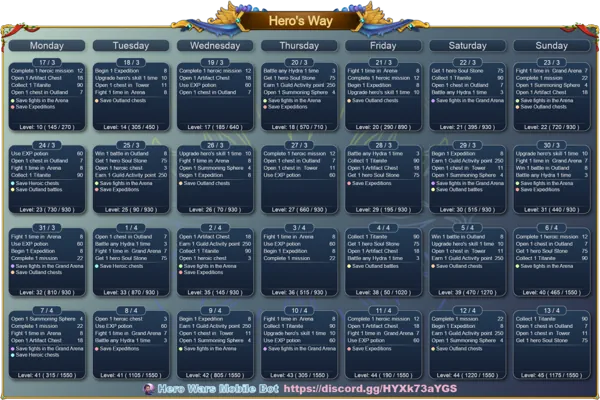
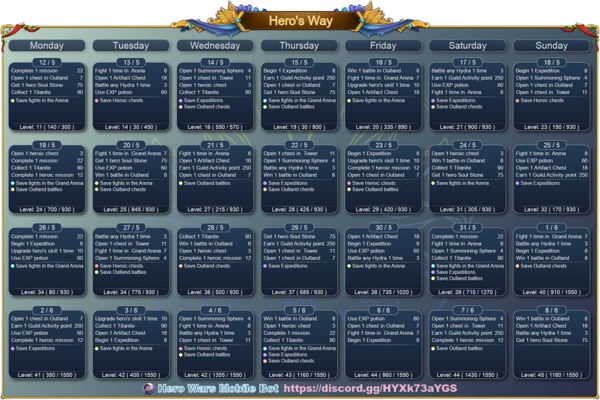
update herosway

diff --git a/hero-wars-alliance/event-hwa/herosway-pt-hwa.html b/hero-wars-alliance/event-hwa/herosway-pt-hwa.html
@@ -5,7 +5,7 @@
 <meta http-equiv="X-UA-Compatible" content="IE=edge">
 <meta name="viewport" content="width=device-width, initial-scale=1.0">
 <meta property="article:published_time" content="2024-09-05T21:45-03:00" />
-<meta property="article:modified_time" content="2025-03-17T23:14-03:00" />
+<meta property="article:modified_time" content="2025-05-17T21:33-03:000" />
 <link rel="stylesheet" href="../../estilo13.css">
 
 <title>Lista Diária do Caminho do Herói para Jogadores de Hero Wars Alliance</title>
@@ -213,16 +213,21 @@ em ingles coloque todas as missoes do evento em html
 </section>
 
 <figure class="img-banner"> 
-  <picture>
-      <!-- Para telas grandes (PC) de 80kb a 150kb -->
-      <source media="(min-width: 768px)" srcset="../../img-HWM/events-img/hero-way/hero-way-calendar.webp">
-      <!-- Para telas menores (mobile) de 30kb a 70kb -->
-      <img src="../../img-HWM/events-img/hero-way/hero-way-calendar-mobile-600px.webp" 
-           alt="Ilustração do evento Caminho do Herói do jogo Hero Wars Alliance" 
-           title="Evento Caminho do Herói - Hero Wars Alliance" 
-           loading="lazy">
-  </picture>
-  <figcaption>
+    <picture>
+        <!-- Para telas grandes (PC) de 80kb a 150kb -->
+        <source media="(min-width: 768px)" srcset="../../img-HWM/events-img/hero-way/hero-way-calendar.webp">
+        <!-- Para telas menores (mobile) de 30kb a 70kb -->
+        <img src="../../img-HWM/events-img/hero-way/hero-way-calendar-mobile-600px.webp" 
+             alt="Ilustração das Missões do evento Caminho do Herói do jogo Hero Wars Alliance" 
+             title="Missões Caminho do Herói - Hero Wars Alliance" 
+             loading="lazy">
+    </picture>
+    <figcaption>
+        Ilustração das Missões do Calendário Caminho do Herói do jogo Hero Wars Alliance.  
+        Fonte da imagem: Hero Wars Mobile Bot (via Discord).
+    </figcaption>
+</figure>
+
       Ilustração do calendário do evento Caminho do Herói do jogo Hero Wars Alliance.  
       Fonte da imagem: Hero Wars Mobile Bot (via Discord).
   </figcaption>

diff --git a/hero-wars-alliance/event-hwa/herosway-en-hwa.html b/hero-wars-alliance/event-hwa/herosway-en-hwa.html
@@ -7,7 +7,7 @@
 <meta name="viewport" content="width=device-width, initial-scale=1.0">
 <meta http-equiv="X-UA-Compatible" content="IE=edge">
 <meta property="article:published_time" content="2024-09-05T21:45-03:00" />
-<meta property="article:modified_time" content="2025-03-17T23:14-03:00" />
+<meta property="article:modified_time" content="2025-05-17T21:33-03:00" />
 <link rel="stylesheet" href="../../estilo13.css">
 
 <title>Daily Hero's Way Checklist for Hero Wars Alliance Players</title>
@@ -203,12 +203,12 @@
         <source media="(min-width: 768px)" srcset="../../img-HWM/events-img/hero-way/hero-way-calendar.webp">
         <!-- Para telas menores (mobile) de 30kb a 70kb -->
         <img src="../../img-HWM/events-img/hero-way/hero-way-calendar-mobile-600px.webp" 
-             alt="Illustration of Hero's Way Event from the game Hero Wars Alliance" 
-             title="Hero's Way Event - Hero Wars Alliance" 
+             alt="Illustration of Hero's Way Event Missions from the game Hero Wars Alliance" 
+             title="Hero's Way Event Missions - Hero Wars Alliance" 
              loading="lazy">
     </picture>
     <figcaption>
-        Illustration of Hero's Way Calendar Event from the game Hero Wars Alliance.  
+        Illustration of Hero's Way Calendar Event Missions from the game Hero Wars Alliance.  
         Image source: Hero Wars Mobile Bot (via Discord).
     </figcaption>
 </figure>
